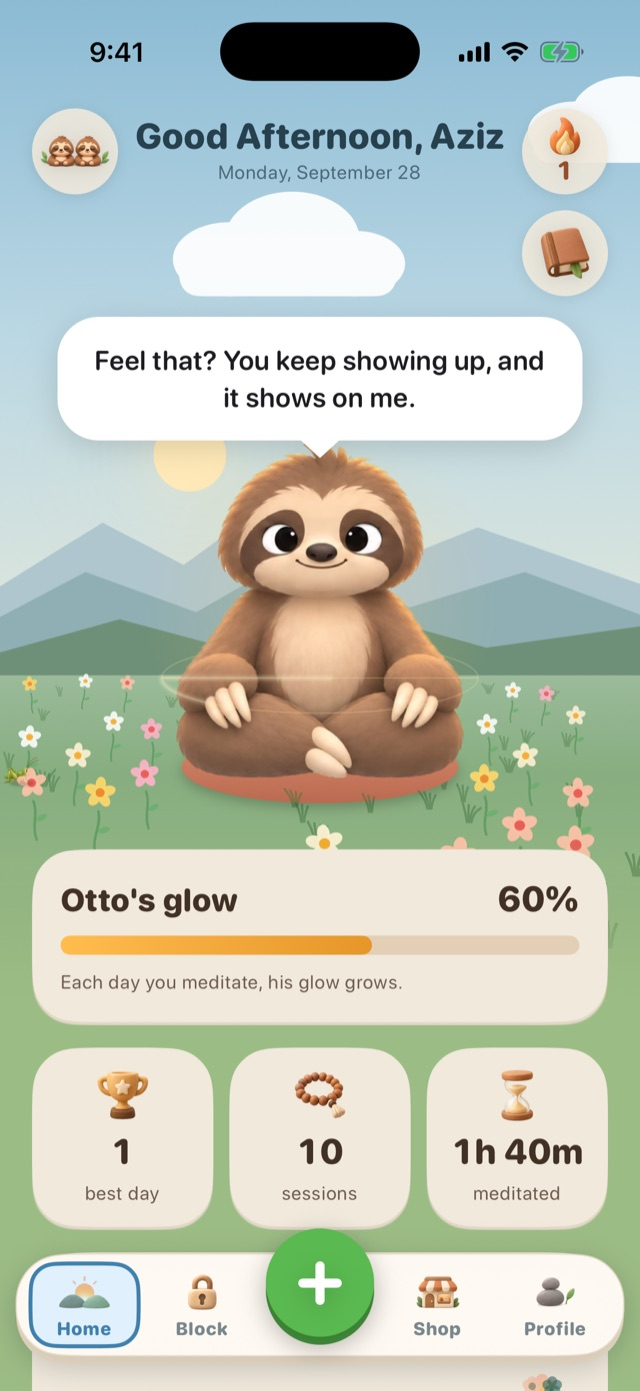
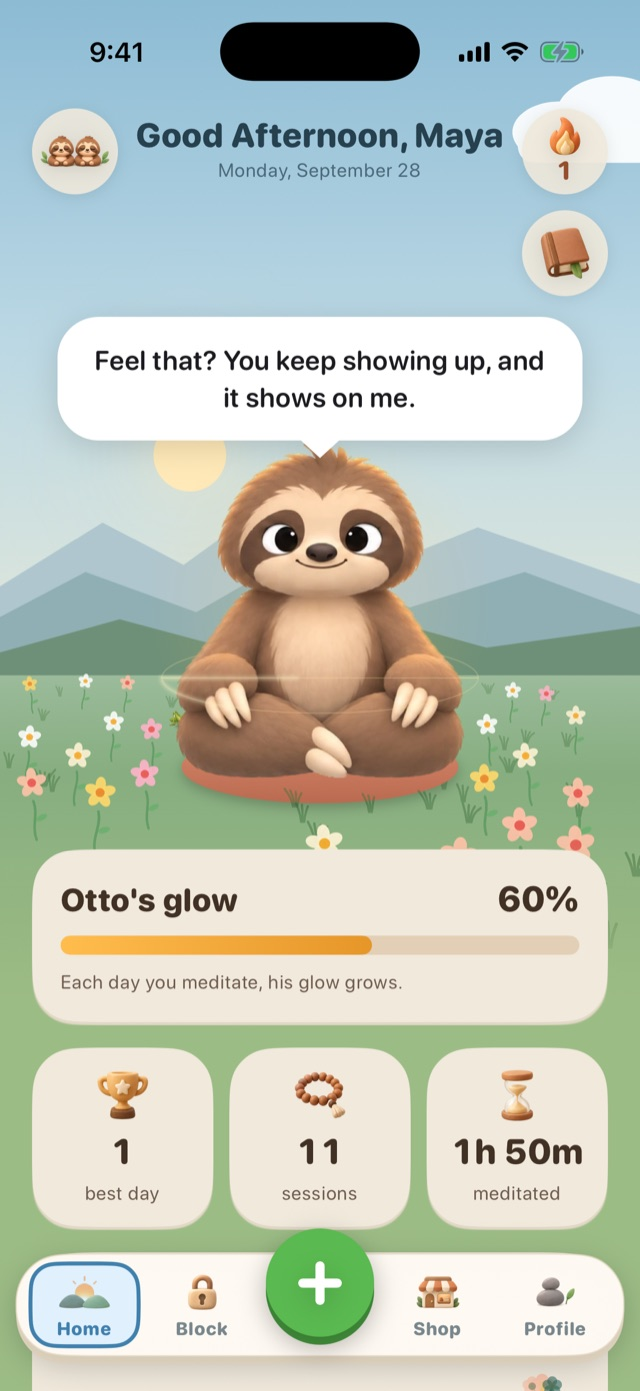
808 Meditate on the site; screenshots show a sample user, not a founder
The site's title, nav and footer, and the first line of the privacy
policy and terms, name the app "808 Meditate". Home and Profile were
retaken as "Maya": the DEMO_NAME / DEMO_USERNAME hooks now replace the
stored name instead of only filling an empty one, and Friends test mode
claims the same handle instead of a hard-coded @aziz.

diff --git a/website/privacy.html b/website/privacy.html
@@ -3,8 +3,8 @@
 <head>
 <meta charset="utf-8">
 <meta name="viewport" content="width=device-width, initial-scale=1">
-<title>808 Privacy Policy</title>
-<meta name="description" content="How 808 handles your information: what stays on your phone, what syncs to your own iCloud, and what we can see.">
+<title>808 Meditate Privacy Policy</title>
+<meta name="description" content="How 808 Meditate handles your information: what stays on your phone, what syncs to your own iCloud, and what we can see.">
 <link rel="preload" href="fonts/nunito-var.woff2" as="font" type="font/woff2" crossorigin>
 <link rel="icon" href="img/otto/ottohead.png">
 <!-- Generated by tools/legal_pages.py from PRIVACY_POLICY.md. Edit that file, not this one. -->
@@ -55,7 +55,7 @@
 <body>
 <div class="top">
   <nav class="nav">
-    <a class="brand" href="index.html"><img src="img/otto/ottohead.png" alt="" width="34" height="34">808</a>
+    <a class="brand" href="index.html"><img src="img/otto/ottohead.png" alt="" width="34" height="34">808 Meditate</a>
     <a class="back" href="index.html">Back to the site</a>
   </nav>
   <h1>Privacy Policy</h1>
@@ -63,7 +63,7 @@
 </div>
 <main>
   <nav class="toc" aria-label="Contents"><b>On this page</b><ol><li><a href="#the-short-version">The short version</a></li><li><a href="#information-the-app-handles">Information the app handles</a></li><li><a href="#where-your-information-lives-and-who-can-access-it">Where your information lives and who can access it</a></li><li><a href="#friends">Friends</a></li><li><a href="#block">Block</a></li><li><a href="#how-the-information-is-used">How the information is used</a></li><li><a href="#third-party-apps-and-media-you-choose">Third-party apps and media you choose</a></li><li><a href="#our-website-and-earlier-waitlists">Our website and earlier waitlists</a></li><li><a href="#third-parties">Third parties</a></li><li><a href="#data-retention-and-deletion">Data retention and deletion</a></li><li><a href="#your-choices-and-rights">Your choices and rights</a></li><li><a href="#consumer-health-data">Consumer health data</a></li><li><a href="#children">Children</a></li><li><a href="#security">Security</a></li><li><a href="#changes-to-this-policy">Changes to this policy</a></li><li><a href="#contact">Contact</a></li></ol></nav>
-<p>This Privacy Policy explains how <strong>Lock Out Inc. ("we," "us," "808")</strong> handles information in the <strong>808</strong> app for iPhone, with optional support for Apple Watch.</p>
+<p>This Privacy Policy explains how <strong>Lock Out Inc. ("we," "us")</strong> handles information in the <strong>808 Meditate</strong> app ("808") for iPhone, with optional support for Apple Watch.</p>
 <h2 id="the-short-version">The short version</h2>
 <p>808 is built to be private by design:</p>
 <ul><li><strong>We don't run a server.</strong> Your account, preferences, and session log sync through <strong>your own private iCloud account</strong> (Apple's CloudKit). Your <strong>health results</strong> (heart-rate trend, stillness, breathing rate, and Apple's heart-rate-variability readings when your Watch produces them) are stored <strong>only on the device that recorded them</strong>. The app never uploads them anywhere, not even to iCloud.</li><li><strong>The one thing we can see is your Friends profile.</strong> If you use Friends, your profile and a short summary of how often you meditate go to a shared area of iCloud that other people in 808 can read, and so can we. Nothing goes there unless you set up a profile, your health results never do, and you can delete all of it. See "Friends" below.</li><li><strong>If you use Block, nothing about it ever reaches us.</strong> The apps you choose to hold, and everything about how and when you open them, stay on your phone in Apple's own Screen Time system. See "Block" below.</li><li><strong>We don't sell your data, run ads, or track you.</strong> There are no advertising identifiers and no cross-app tracking. We collect anonymous usage analytics (which features are used, not what your body measured); see "Usage analytics" below.</li><li><strong>Your health data never leaves your devices.</strong> It's measured on your Apple Watch and turned into your session results; we never use it for advertising and never share it.</li><li><strong>We don't know what you listen to.</strong> 808 measures in the background so you can play a meditation from YouTube or any other app. We receive no information about what you play, and we have no connection to those services.</li><li><strong>You can delete everything</strong> at any time from Settings → Delete Account.</li></ul>

diff --git a/website/terms.html b/website/terms.html
@@ -3,8 +3,8 @@
 <head>
 <meta charset="utf-8">
 <meta name="viewport" content="width=device-width, initial-scale=1">
-<title>808 Terms of Service</title>
-<meta name="description" content="The terms for using the 808 meditation app.">
+<title>808 Meditate Terms of Service</title>
+<meta name="description" content="The terms for using 808 Meditate.">
 <link rel="preload" href="fonts/nunito-var.woff2" as="font" type="font/woff2" crossorigin>
 <link rel="icon" href="img/otto/ottohead.png">
 <!-- Generated by tools/legal_pages.py from TERMS_OF_SERVICE.md. Edit that file, not this one. -->
@@ -55,7 +55,7 @@
 <body>
 <div class="top">
   <nav class="nav">
-    <a class="brand" href="index.html"><img src="img/otto/ottohead.png" alt="" width="34" height="34">808</a>
+    <a class="brand" href="index.html"><img src="img/otto/ottohead.png" alt="" width="34" height="34">808 Meditate</a>
     <a class="back" href="index.html">Back to the site</a>
   </nav>
   <h1>Terms of Service</h1>
@@ -63,7 +63,7 @@
 </div>
 <main>
   <nav class="toc" aria-label="Contents"><b>On this page</b><ol><li><a href="#1-health-and-wellness-disclaimer-please-read">1. Health and wellness disclaimer: please read</a></li><li><a href="#2-the-service">2. The service</a></li><li><a href="#3-eligibility-and-your-account">3. Eligibility and your account</a></li><li><a href="#3a-subscriptions-and-payments">3a. Subscriptions and payments</a></li><li><a href="#4-license">4. License</a></li><li><a href="#5-acceptable-use">5. Acceptable use</a></li><li><a href="#6-your-content-and-data">6. Your content and data</a></li><li><a href="#6a-friends-your-profile-and-what-we-will-not-tolerate">6a. Friends: your profile, and what we will not tolerate</a></li><li><a href="#6b-block-managing-your-own-device-use">6b. Block: managing your own device use</a></li><li><a href="#7-intellectual-property">7. Intellectual property</a></li><li><a href="#8-third-party-services">8. Third-party services</a></li><li><a href="#9-disclaimers">9. Disclaimers</a></li><li><a href="#10-limitation-of-liability">10. Limitation of liability</a></li><li><a href="#11-indemnification">11. Indemnification</a></li><li><a href="#12-termination">12. Termination</a></li><li><a href="#13-changes">13. Changes</a></li><li><a href="#14-dispute-resolution-binding-arbitration-and-class-action-waiver">14. Dispute resolution: binding arbitration and class-action waiver</a></li><li><a href="#15-governing-law">15. Governing law</a></li><li><a href="#16-apple-app-store-additional-terms-eula">16. Apple App Store: additional terms (EULA)</a></li><li><a href="#17-contact">17. Contact</a></li></ol></nav>
-<p>These Terms of Service ("Terms") are a legal agreement between you and <strong>Lock Out Inc. ("we," "us," "808")</strong> governing your use of the <strong>808</strong> app for iPhone, with optional support for Apple Watch (the "App"). By downloading or using the App, you agree to these Terms. If you don't agree, don't use the App.</p>
+<p>These Terms of Service ("Terms") are a legal agreement between you and <strong>Lock Out Inc. ("we," "us")</strong> governing your use of the <strong>808 Meditate</strong> app ("808") for iPhone, with optional support for Apple Watch (the "App"). By downloading or using the App, you agree to these Terms. If you don't agree, don't use the App.</p>
 <h2 id="1-health-and-wellness-disclaimer-please-read">1. Health and wellness disclaimer: please read</h2>
 <p><strong>808 is a wellness and self-reflection tool. It is not a medical device and does not provide medical advice, diagnosis, or treatment.</strong> The heart-rate and stillness measurements and scores the App shows are <strong>estimates for general wellness and informational purposes only</strong>, and are not intended to detect, diagnose, treat, cure, or prevent any disease or health condition.</p>
 <ul><li>Do not rely on the App for any medical purpose or in any emergency.</li><li>Always consult a qualified healthcare professional with questions about your health, before starting any meditation or wellness practice, and before acting on anything the App shows you.</li><li>If you think you may have a medical emergency, call your doctor or emergency services immediately.</li></ul>

diff --git a/website/index.html b/website/index.html
@@ -3,9 +3,9 @@
 <head>
 <meta charset="utf-8">
 <meta name="viewport" content="width=device-width, initial-scale=1">
-<title>808: Meditation That Sticks</title>
-<meta name="description" content="808 is the meditation app that makes it a habit. Otto holds the apps that pull you in until you've meditated, and glows brighter every day you do.">
-<meta property="og:title" content="808: Meditation That Sticks">
+<title>808 Meditate</title>
+<meta name="description" content="808 Meditate is the meditation app that makes it a habit. Otto holds the apps that pull you in until you've meditated, and glows brighter every day you do.">
+<meta property="og:title" content="808 Meditate">
 <meta property="og:description" content="Otto holds the apps that pull you in until you've meditated, and glows brighter every day you do.">
 <meta property="og:image" content="img/app/home.jpg">
 <link rel="preload" href="fonts/nunito-var.woff2" as="font" type="font/woff2" crossorigin>
@@ -263,7 +263,7 @@
 <!-- ================= hero ================= -->
 <header class="hero">
   <nav class="nav">
-    <a class="brand" href="#top" aria-label="808 home"><img src="img/otto/ottohead.png" alt="" width="38" height="38">808</a>
+    <a class="brand" href="#top" aria-label="808 Meditate home"><img src="img/otto/ottohead.png" alt="" width="38" height="38">808 Meditate</a>
     <a class="get" href="https://apps.apple.com/app/apple-store/id6806785308?pt=129152995&ct=website&mt=8">Download</a>
   </nav>
   <div class="hero-copy" id="top">
@@ -686,7 +686,7 @@
   <div class="wrap">
     <div class="foot">
       <div>
-        <a class="brand" href="#top"><img src="img/otto/ottohead.png" alt="" width="38" height="38">808</a>
+        <a class="brand" href="#top"><img src="img/otto/ottohead.png" alt="" width="38" height="38">808 Meditate</a>
         <p class="tag">The meditation app that makes it stick.</p>
       </div>
       <div>
@@ -714,7 +714,7 @@
         </ul>
       </div>
     </div>
-    <a class="prefsource" href="https://www.google.com/preferences/source?q=meditate808.com" target="_blank" rel="noopener" aria-label="Add 808 as a preferred source on Google">
+    <a class="prefsource" href="https://www.google.com/preferences/source?q=meditate808.com" target="_blank" rel="noopener" aria-label="Add 808 Meditate as a preferred source on Google">
       <svg viewBox="0 0 24 24" aria-hidden="true">
         <path fill="#4285F4" d="M22.5 12.3c0-.8-.1-1.5-.2-2.2H12v4.2h5.9a5 5 0 0 1-2.2 3.3v2.7h3.5c2.1-1.9 3.3-4.7 3.3-8z"/>
         <path fill="#34A853" d="M12 23c3 0 5.4-1 7.2-2.7l-3.5-2.7c-1 .7-2.2 1.1-3.7 1.1-2.9 0-5.3-1.9-6.2-4.5H2.2v2.8A11 11 0 0 0 12 23z"/>

diff --git a/Coherence/ContentView.swift b/Coherence/ContentView.swift
@@ -439,13 +439,16 @@ struct ContentView: View {
             }
             if let name = ProcessInfo.processInfo.environment["DEMO_NAME"] {
                 let u = SessionStore.currentUser(in: context)
-                if (u.displayName ?? "").isEmpty { u.displayName = name; try? context.save() }
+                // Replaces whatever is there, so store and website shots never
+                // carry a founder's name (Aziz, 2026-09-28).
+                if u.displayName != name { u.displayName = name; try? context.save() }
             }
             // Store screenshots of the Profile tab: the handle is optional in
             // onboarding, so a seeded profile has none unless asked for here.
             if let handle = ProcessInfo.processInfo.environment["DEMO_USERNAME"] {
                 let u = SessionStore.currentUser(in: context)
-                if (u.username ?? "").isEmpty { u.username = Username.normalize(handle); try? context.save() }
+                let normalized = Username.normalize(handle)
+                if u.username != normalized { u.username = normalized; try? context.save() }
             }
             if ProcessInfo.processInfo.environment["PREVIEW_BLOCKED"] == "1" {
                 coordinator.startFailure = .heartRateUnavailable

diff --git a/Coherence/Community/MemoryCommunityDatabase.swift b/Coherence/Community/MemoryCommunityDatabase.swift
@@ -159,7 +159,11 @@ enum DemoCommunity {
         let me = CommunityStore(database: db)
         // PREVIEW_FRIENDS=claim leaves me unclaimed so the first-run screen shows.
         if ProcessInfo.processInfo.environment["PREVIEW_FRIENDS"] != "claim" {
-            try? await me.claimUsername("aziz", displayName: "Aziz")
+            // DEMO_USERNAME / DEMO_NAME override it, so screenshots never
+            // carry a founder's handle.
+            let env = ProcessInfo.processInfo.environment
+            try? await me.claimUsername(env["DEMO_USERNAME"] ?? "aziz",
+                                        displayName: env["DEMO_NAME"] ?? "Aziz")
         }
 
         db.user = "_demo_melvin"

diff --git a/tools/legal_pages.py b/tools/legal_pages.py
@@ -17,9 +17,9 @@ ROOT = Path(__file__).resolve().parent.parent
 
 PAGES = [
     ("PRIVACY_POLICY.md", "website/privacy.html", "Privacy Policy",
-     "How 808 handles your information: what stays on your phone, what syncs to your own iCloud, and what we can see."),
+     "How 808 Meditate handles your information: what stays on your phone, what syncs to your own iCloud, and what we can see."),
     ("TERMS_OF_SERVICE.md", "website/terms.html", "Terms of Service",
-     "The terms for using the 808 meditation app."),
+     "The terms for using 808 Meditate."),
 ]
 
 
@@ -81,7 +81,7 @@ TEMPLATE = """<!doctype html>
 <head>
 <meta charset="utf-8">
 <meta name="viewport" content="width=device-width, initial-scale=1">
-<title>808 {title}</title>
+<title>808 Meditate {title}</title>
 <meta name="description" content="{description}">
 <link rel="preload" href="fonts/nunito-var.woff2" as="font" type="font/woff2" crossorigin>
 <link rel="icon" href="img/otto/ottohead.png">
@@ -133,7 +133,7 @@ TEMPLATE = """<!doctype html>
 <body>
 <div class="top">
   <nav class="nav">
-    <a class="brand" href="index.html"><img src="img/otto/ottohead.png" alt="" width="34" height="34">808</a>
+    <a class="brand" href="index.html"><img src="img/otto/ottohead.png" alt="" width="34" height="34">808 Meditate</a>
     <a class="back" href="index.html">Back to the site</a>
   </nav>
   <h1>{title}</h1>

diff --git a/CLAUDE.md b/CLAUDE.md
@@ -6456,9 +6456,15 @@ never confirms; the Watch already starts its own sessions and has End.
   card through all seven looks, a sticky phone that swaps screenshots per
   feature, the famous-meditators wall, the research with sources, an evening
   closer. **Reviews and the waitlist are gone** (Aziz). Nunito, self-hosted.
-  Screenshots in `website/img/app/` were taken from the simulator and show
-  "Aziz"; Block and hats appear on it but are off in Release, so deploy when
-  the release that ships them does. Copy was rewritten to avoid generated
+  **The public name is "808 Meditate"** (Aziz, 2026-09-28): the site's
+  title, nav and footer, and the first line of the policy and terms; "808"
+  stays the short form in running copy and the app's display name. The
+  screenshots in `website/img/app/` show a sample user, Maya: launch with
+  `SIMCTL_CHILD_DEMO_NAME=Maya SIMCTL_CHILD_DEMO_USERNAME=maya` (both hooks
+  now REPLACE the stored name, and Friends test mode claims the same handle),
+  then relaunch with your own name to put it back. Block and hats appear on
+  the site but are off in Release, so deploy when the release that ships
+  them does. Copy was rewritten to avoid generated
   tells (Aziz: "make sure the text doesn't sound like AI").
 - **Legal pages are generated**: `python3 tools/legal_pages.py` builds
   `website/privacy.html` and `terms.html` from the app's own

diff --git a/TERMS_OF_SERVICE.md b/TERMS_OF_SERVICE.md
@@ -3,8 +3,8 @@
 **Last updated: September 28, 2026**
 
 These Terms of Service ("Terms") are a legal agreement between you and
-**Lock Out Inc. ("we," "us," "808")** governing your use of the **808** app
-for iPhone, with optional support for Apple Watch (the "App"). By downloading
+**Lock Out Inc. ("we," "us")** governing your use of the **808 Meditate**
+app ("808") for iPhone, with optional support for Apple Watch (the "App"). By downloading
 or using the App, you agree to these Terms. If you don't agree, don't use the
 App.
 

diff --git a/PRIVACY_POLICY.md b/PRIVACY_POLICY.md
@@ -2,9 +2,9 @@
 
 **Last updated: September 28, 2026**
 
-This Privacy Policy explains how **Lock Out Inc. ("we," "us," "808")**
-handles information in the **808** app for iPhone, with optional support for
-Apple Watch.
+This Privacy Policy explains how **Lock Out Inc. ("we," "us")** handles
+information in the **808 Meditate** app ("808") for iPhone, with optional
+support for Apple Watch.
 
 ## The short version
 
